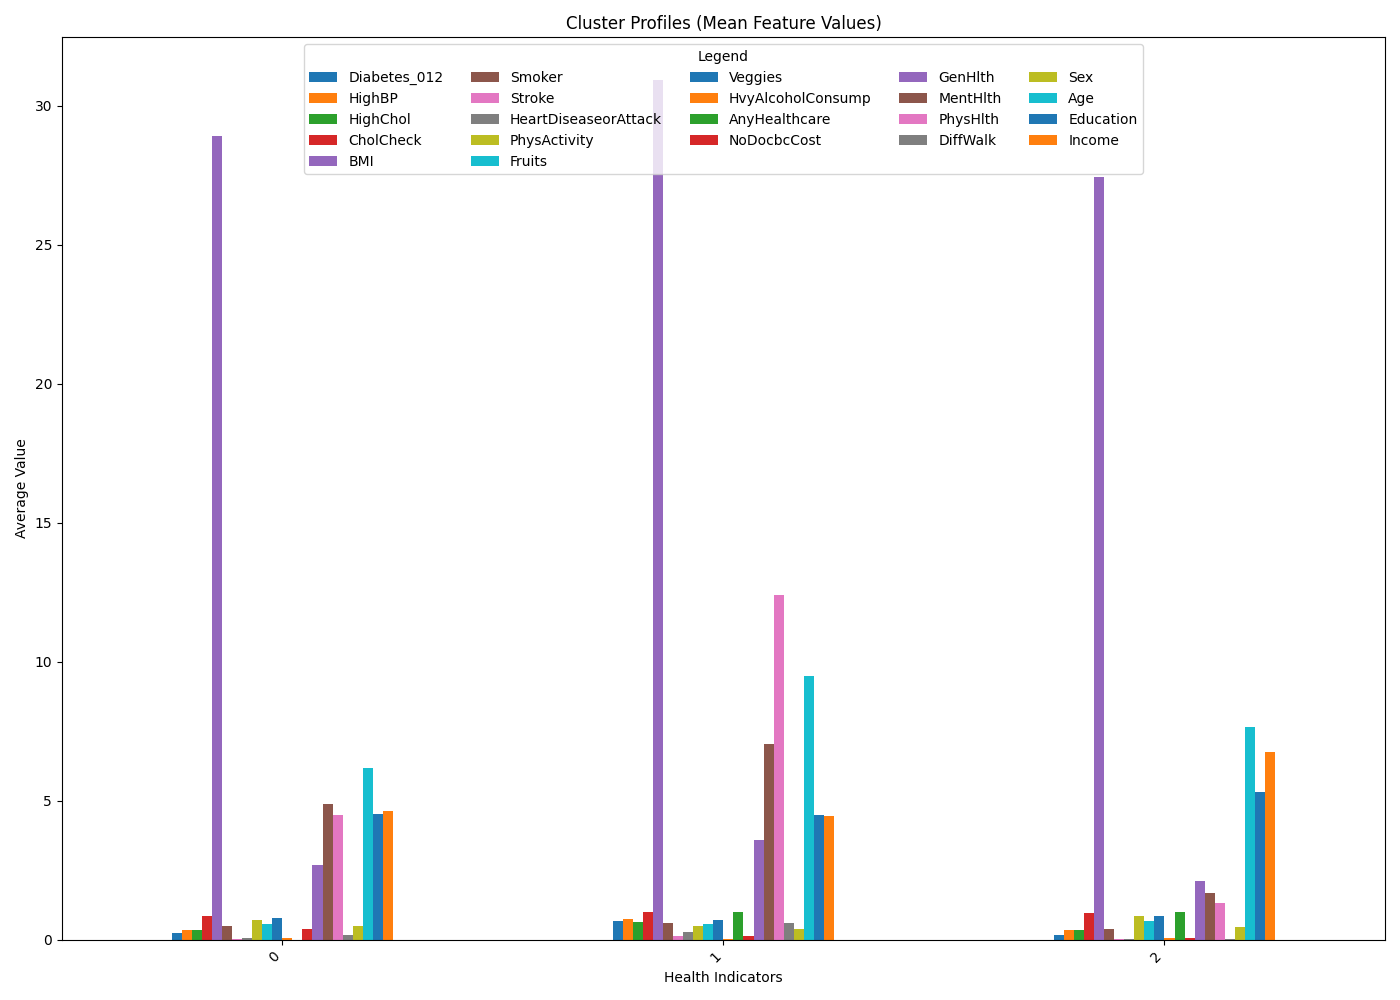
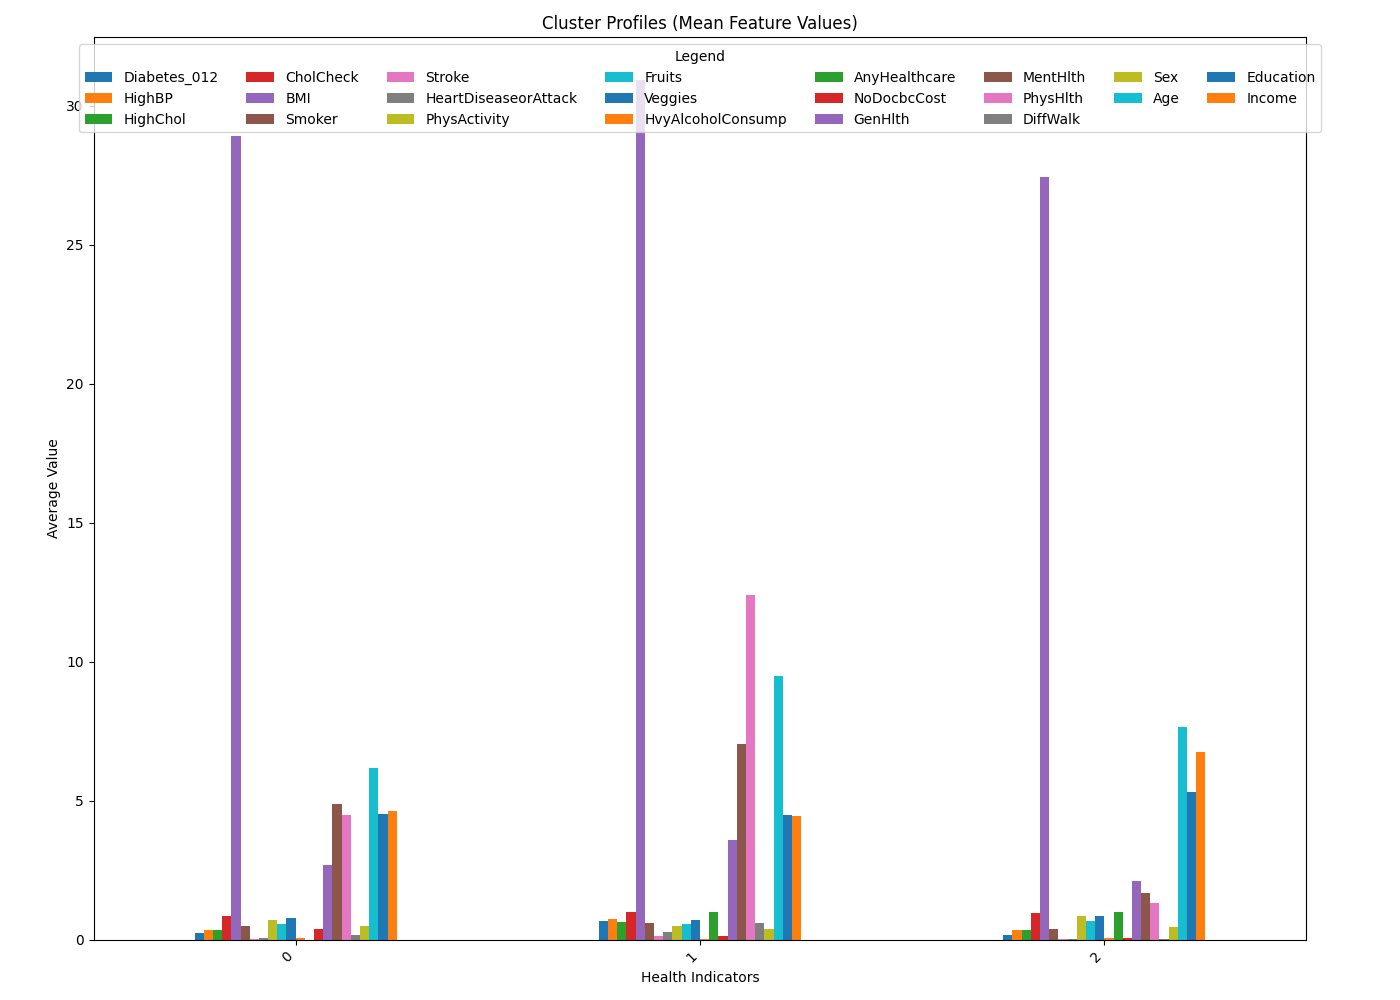
small fix

diff --git a/K-Means/kmeans.py b/K-Means/kmeans.py
@@ -21,7 +21,7 @@ def clean_directory(directory):
 
 def generate_pca_plot(data, features_2d, k):
     plt.figure(figsize=(10, 7))
-    sns.scatterplot(x=features_2d[:, 0], y=features_2d[:, 1], hue=data['Cluster'], palette='viridis', alpha=0.6)
+    sns.scatterplot(x=features_2d[:, 0], y=features_2d[:, 1], hue=data['Cluster'])
     plt.title('Clusters of Health Profiles in 2D PCA Space')
     plt.xlabel(f'PCA Component 1: {features_2d[:, 0].var():.2f}')
     plt.ylabel(f'PCA Component 2: {features_2d[:, 1].var():.2f}')
@@ -61,7 +61,7 @@ def traditional_clustering(data, features, features_scaled, k):
 
     # Profile Each Cluster by calculating the average of each feature within each cluster
     cluster_profiles = data.groupby('Cluster').mean()
-    generate_plot(cluster_profiles, "Cluster Profiles (Mean Feature Values)", "Health Indicators", "Average Value", "./graphs/cluster_profiles.png")
+    generate_plot(cluster_profiles, "Cluster Profiles (Mean Feature Values)", "Health Indicators", "Average Value", "./graphs/cluster_profiles.png", 8)
     save_results(cluster_profiles, "Cluster Profiles (Mean Feature Values)", "./results/cluster_profiles.txt")
 
     # Analyze Cluster Composition in Terms of Diabetes Status
